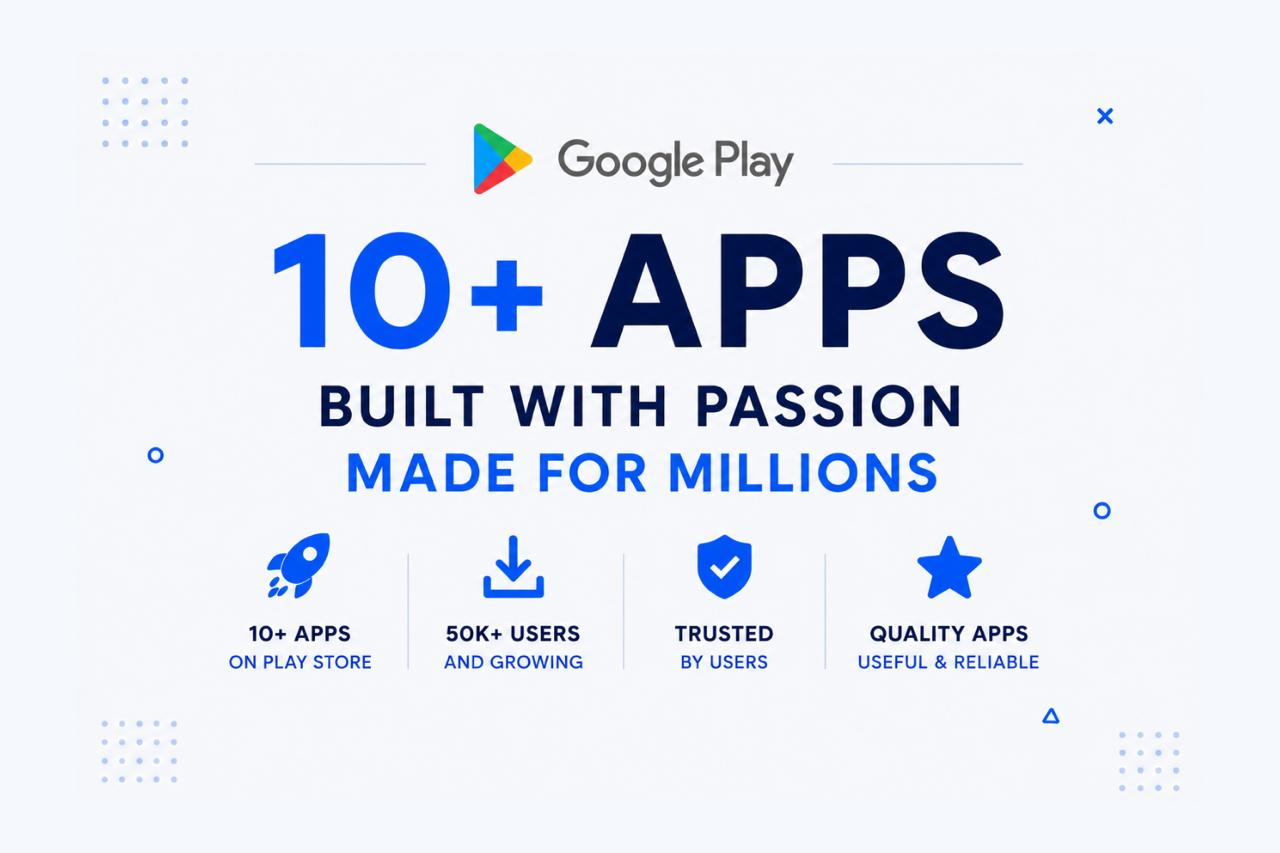
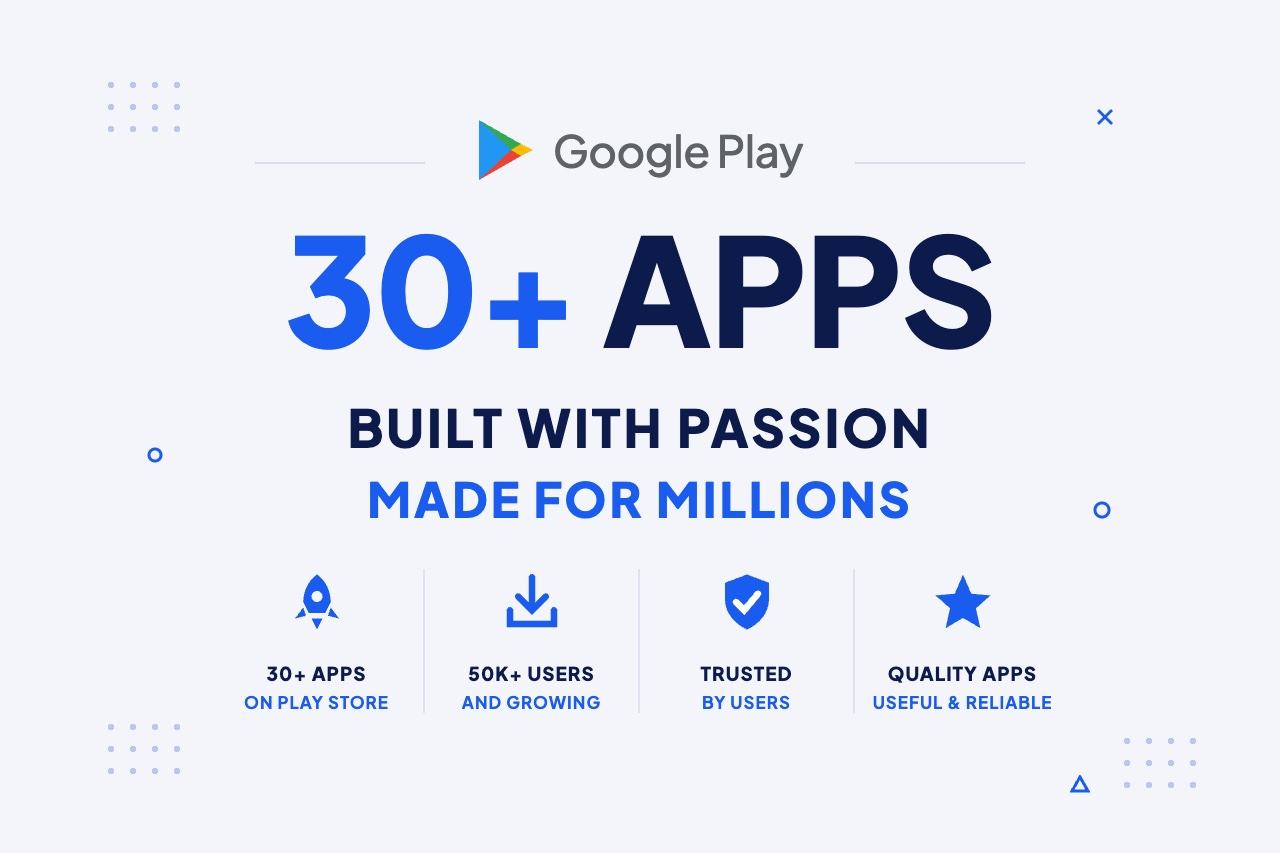
Portfolio: 30+ apps in the text and the Google Play image

diff --git a/index.html b/index.html
@@ -13,7 +13,7 @@
     />
     <meta
       name="description"
-      content="Akshay CP is the founder of Swaylo AI, an AI engine that routes every message to the most efficient model that can answer it, with voice recognition, image recognition and model switching inside a single conversation. Also the founder of Shopdesk AI Assistant and ESTAZY, an AI financial advisor that reads spending, business income and ad spend together. Flutter App Developer with 10+ apps on Google Play and a macOS app on the Mac App Store. Based in Kerala, India."
+      content="Akshay CP is the founder of Swaylo AI, an AI engine that routes every message to the most efficient model that can answer it, with voice recognition, image recognition and model switching inside a single conversation. Also the founder of Shopdesk AI Assistant and ESTAZY, an AI financial advisor that reads spending, business income and ad spend together. Flutter App Developer with 30+ apps on Google Play and a macOS app on the Mac App Store. Based in Kerala, India."
     />
     <meta
       name="keywords"
@@ -40,7 +40,7 @@
     />
     <meta
       property="og:description"
-      content="Flutter App Developer with 2+ years of experience. Specializing in mobile and macOS apps, ERP systems, 3D experiences. 10+ apps on Google Play and a macOS app on the Mac App Store."
+      content="Flutter App Developer with 2+ years of experience. Specializing in mobile and macOS apps, ERP systems, 3D experiences. 30+ apps on Google Play and a macOS app on the Mac App Store."
     />
     <meta
       property="og:image"
@@ -64,7 +64,7 @@
     />
     <meta
       name="twitter:description"
-      content="Flutter App Developer with 2+ years of experience. Specializing in mobile and macOS apps, ERP systems, 3D experiences. 10+ apps on Google Play and a macOS app on the Mac App Store."
+      content="Flutter App Developer with 2+ years of experience. Specializing in mobile and macOS apps, ERP systems, 3D experiences. 30+ apps on Google Play and a macOS app on the Mac App Store."
     />
     <meta
       name="twitter:image"
@@ -193,7 +193,7 @@
         "@type": "WebSite",
         "name": "Akshay CP Portfolio",
         "url": "https://akshaycp.com/",
-        "description": "Portfolio website of Akshay CP - Flutter App Developer, ERP Developer & 3D Developer with 10+ published apps",
+        "description": "Portfolio website of Akshay CP - Flutter App Developer, ERP Developer & 3D Developer with 30+ published apps",
         "author": {
           "@id": "https://akshaycp.com/#person"
         },
@@ -543,7 +543,7 @@
             Founder of <strong class="text-gray-300 font-bold">Swaylo AI</strong>, my own AI engine that picks a
             different model for every message, so texting stays fast and efficient. Shopdesk AI Assistant, the WhatsApp
             salesperson built on it, is the first thing it runs. Flutter and ERP developer with 2 + years of
-            experience, 10+ apps on Google Play and a macOS app on the Mac App Store. 3D and AR is where I started, and it’s a side project now.
+            experience, 30+ apps on Google Play and a macOS app on the Mac App Store. 3D and AR is where I started, and it’s a side project now.
           </p>
           <div class="mt-8 flex gap-4">
             <a
@@ -625,7 +625,7 @@
                   <strong class="text-gray-300 font-bold">Shopdesk AI Assistant</strong> is the first product
                   built on it, the WhatsApp salesperson that answers customers, checks their address and
                   books their orders. I am the founder of both. Alongside that, 2 + years building Flutter
-                  mobile apps, ERP systems and business applications, with 10+ published on Google Play.
+                  mobile apps, ERP systems and business applications, with 30+ published on Google Play.
                   I also ship on the desktop: <strong class="text-gray-300 font-bold">PDF &amp; Images to Booklet</strong>
                   is a native macOS build of the same codebase, live on the Mac App Store.
                   <strong class="text-gray-300 font-bold">ESTAZY</strong> is the third thing I run, an AI
@@ -688,9 +688,9 @@
                       target="_blank"
                       rel="noopener noreferrer"
                       class="hover:text-white transition-colors"
-                      aria-label="View 10+ published apps on Google Play Store"
+                      aria-label="View 30+ published apps on Google Play Store"
                     >
-                      📱 10+ Apps on Google Play Store ↗
+                      📱 30+ Apps on Google Play Store ↗
                     </a>
                   </li>
                   <li itemprop="alumniOf" itemscope itemtype="https://schema.org/EducationalOrganization">
@@ -870,9 +870,9 @@
                     class="project-image-container bg-zinc-900 rounded-lg mb-4 overflow-hidden relative"
                   >
                     <img
-                      src="apps.jpeg"
+                      src="apps.jpeg?v=30"
                       class="project-image"
-                      alt="Collection of 10+ published apps by Akshay CP on Google Play Store"
+                      alt="Collection of 30+ published apps by Akshay CP on Google Play Store"
                       loading="lazy"
                       decoding="async"
                       width="600"
@@ -1311,7 +1311,7 @@
                   academic operations, including attendance marking and mark
                   entry, with seamless integration to the ERP backend APIs.<br><br>
                   <!-- Farook College had no dedicated Flutter developer position prior to my joining. I proactively approached the team, demonstrated my skills, and created this role for myself.<br><br> -->
-                  Alongside my professional work, I design, build and ship my own Flutter apps end to end, with 10+ published on the Google Play Store, spanning utility apps, AR/3D experiences and Firebase backed products.<br><br>
+                  Alongside my professional work, I design, build and ship my own Flutter apps end to end, with 30+ published on the Google Play Store, spanning utility apps, AR/3D experiences and Firebase backed products.<br><br>
                   Since 2026 that extends to the desktop. PDF &amp; Images to Booklet is live on the Mac App Store as a native macOS app, built from the same Flutter codebase and taken through Apple's side of the work myself: App Store Connect, signing and notarisation, the sandbox entitlements a desktop app needs, native window sizing and in-app purchases on StoreKit.
                 </p>
               </article>
@@ -1713,9 +1713,9 @@
               rel="noopener noreferrer"
               class="bento-item bento-stats-box bento-span2"
               role="listitem"
-              aria-label="10+ published apps on Google Play Store - View all"
+              aria-label="30+ published apps on Google Play Store - View all"
             >
-              <div class="stats-number" aria-hidden="true">10+</div>
+              <div class="stats-number" aria-hidden="true">30+</div>
               <div class="stats-label">Published Apps</div>
               <div class="stats-sub">on Google Play, plus macOS on the Mac App Store</div>
             </a>
